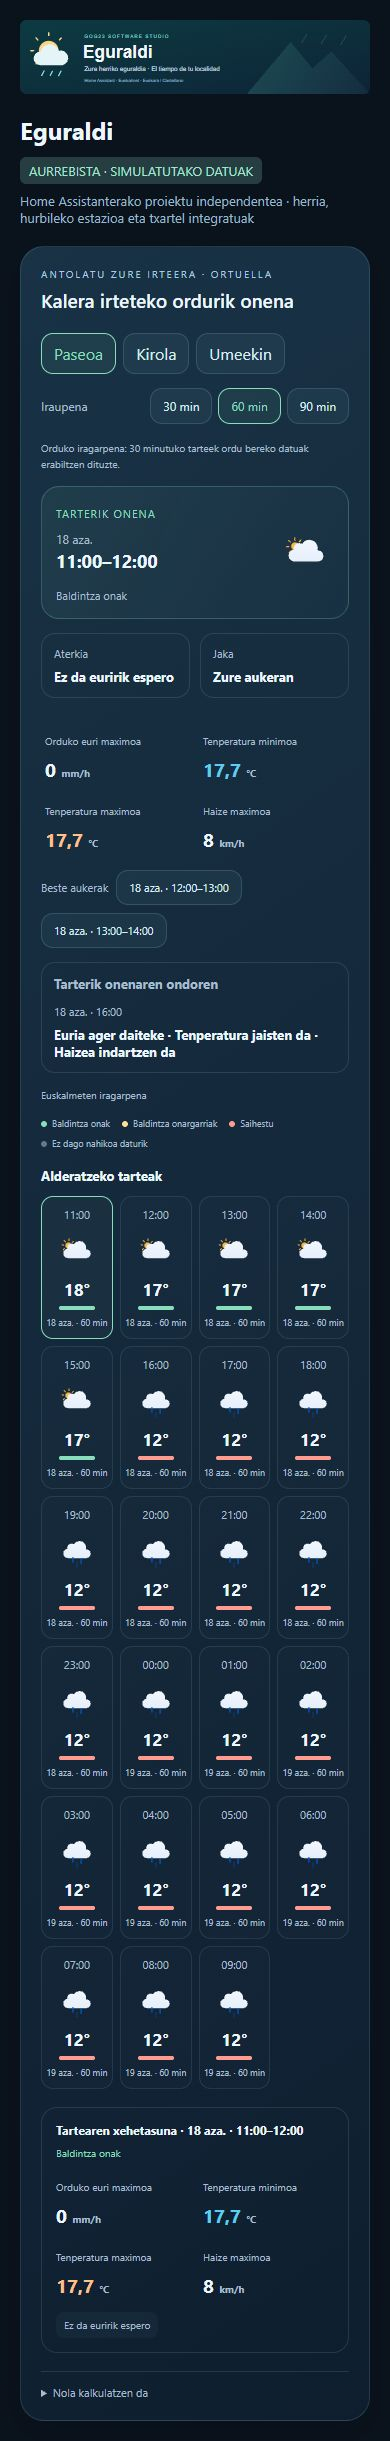
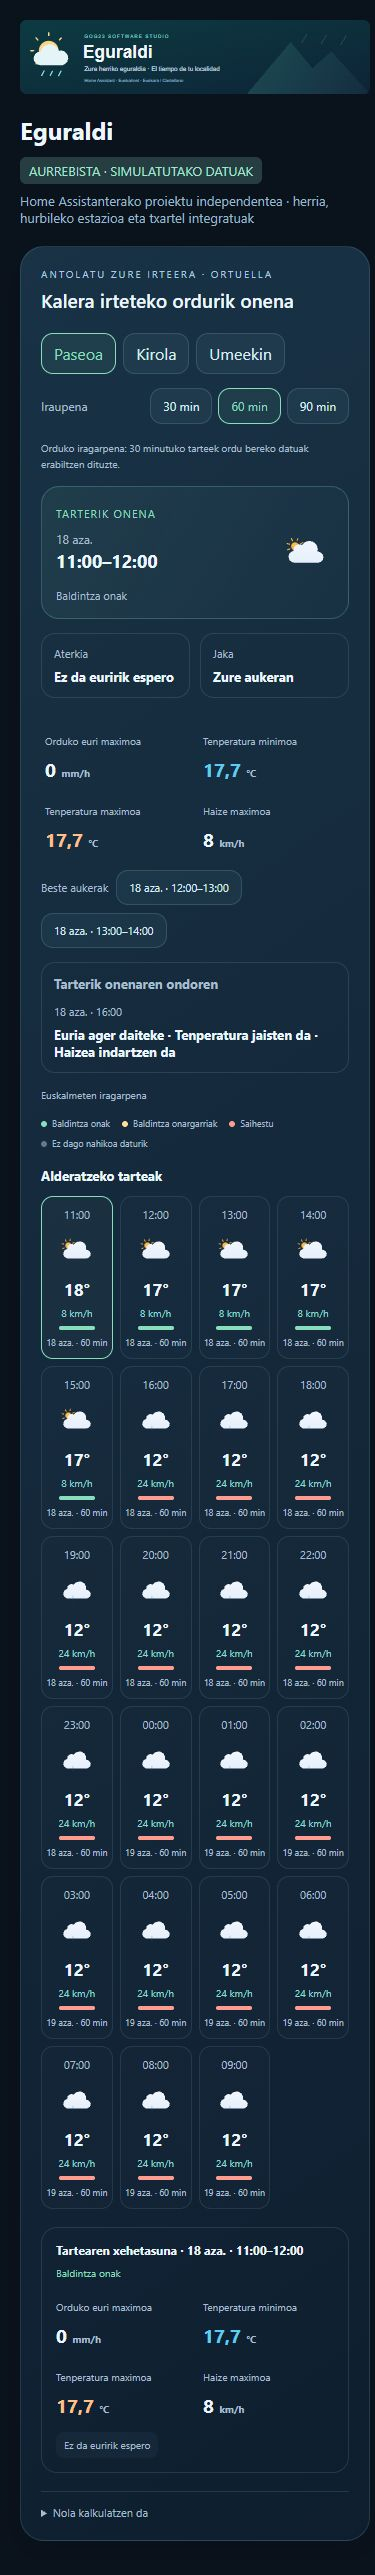
Match outing forecast tiles to drying card hourly wind display

diff --git a/custom_components/euskalmet_local/frontend/euskalmet-local-card.js b/custom_components/euskalmet_local/frontend/euskalmet-local-card.js
@@ -1,14 +1,14 @@
 /* Eguraldi — GOG23 Software Studio. MIT. Icons: Meteocons / Bas Milius. */
-import './euskalmet-alert-card.js?v=0.4.1';
-import './eguraldi-comparison-card.js?v=0.4.1';
-import './eguraldi-microclimate-card.js?v=0.4.1';
-import './euskalmet-history-card.js?v=0.4.1-controls';
-import './euskalmet-radar-map-card.js?v=0.4.1';
+import './euskalmet-alert-card.js?v=0.4.2';
+import './eguraldi-comparison-card.js?v=0.4.2';
+import './eguraldi-microclimate-card.js?v=0.4.2';
+import './euskalmet-history-card.js?v=0.4.2-controls';
+import './euskalmet-radar-map-card.js?v=0.4.2';
 
-import {DRYING_CSS} from './eguraldi-drying-style.js?v=0.4.1';
-import {dryingPlan} from './eguraldi-drying-model.js?v=0.4.1';
+import {DRYING_CSS} from './eguraldi-drying-style.js?v=0.4.2';
+import {dryingPlan} from './eguraldi-drying-model.js?v=0.4.2';
 
-import {outingPlan} from './eguraldi-outing-model.js?v=0.4.1';
+import {outingPlan} from './eguraldi-outing-model.js?v=0.4.2';
 
 const EU_TEXT = {
   "Despejado": "Oskarbi",
@@ -303,7 +303,7 @@ export class EuskalmetLocalCard extends HTMLElement {
     const best=plan.best,selected=plan.windows.find(w=>w.start===this._outingSelected)||best||plan.windows[0],labels={good:'Condiciones favorables',fair:'Condiciones aceptables',avoid:'Evitar',unknown:'Sin datos suficientes'},reasons={storm:'Tormenta o condiciones adversas',wind:'Viento demasiado fuerte',extreme:'Temperatura poco adecuada para esta actividad',rain:'Franja con lluvia',fog:'Niebla',rain_possible:'Probabilidad de lluvia o lluvia débil',cool:'Temperatura baja',night:'Noche o poca luz',breezy:'Viento molesto'};
     const rows=plan.windows.filter(w=>w.start%3600000===0||w.start===best?.start||w.start===selected?.start);
     const facts=w=>{const all=key=>w.parts.every(p=>numeric(p[key])!==null),values=key=>w.parts.map(p=>p[key]);return `<div class="dry-facts">${[[this._t('Máxima lluvia horaria'),all('rain')?Math.max(...values('rain')):null,'mm/h'],[this._t('Temperatura mínima'),all('temperature')?Math.min(...values('temperature')):null,'°C'],[this._t('Temperatura máxima'),all('temperature')?Math.max(...values('temperature')):null,'°C'],[this._t('Viento máximo'),all('wind')?Math.max(...values('wind')):null,'km/h']].map(([label,value,unit])=>`<div><span>${escapeHTML(label)}</span><strong class="${label===this._t('Temperatura mínima')?'outing-min':label===this._t('Temperatura máxima')?'outing-max':''}">${fmt(value)} <small>${unit}</small></strong></div>`).join('')}</div>`;};
-    return `<section class="drying outing">${this._forecastHeader('La mejor hora para salir','Organiza tu salida')}<div class="outing-controls" role="group" aria-label="${this._t('Actividad')}">${[['walk','Paseo'],['sport','Deporte'],['family','Con niños']].map(([id,label])=>`<button data-outing-activity="${id}" aria-pressed="${plan.activity===id}">${escapeHTML(this._t(label))}</button>`).join('')}</div><div class="dry-controls"><span>${escapeHTML(this._t('Duración'))}</span><div>${[30,60,90].map(n=>`<button data-outing-minutes="${n}" aria-pressed="${plan.minutes===n}">${n} min</button>`).join('')}</div></div><div class="dry-source">${escapeHTML(this._t('Previsión horaria: las franjas de 30 minutos usan los mismos datos de su hora.'))}</div><div class="dry-hero ${best?best.status:'avoid'}"><div><span class="dry-kicker">${escapeHTML(this._t(best?'Mejor ventana':'Mejor esperar'))}</span><strong>${best?`<small class="dry-window-date">${escapeHTML(day(best.start))}</small>${escapeHTML(clock(best.start))}–${escapeHTML(clock(best.end))}${day(best.start)!==day(best.end)?`<small class="dry-window-date">${escapeHTML(day(best.end))}</small>`:''}`:escapeHTML(this._t('No se ha encontrado una franja adecuada con los datos disponibles.'))}</strong><span class="dry-verdict">${best?escapeHTML(this._t(labels[best.status])):''}</span></div>${best?this._icon(best.parts[0].condition,best.start):''}</div>${best?`<div class="outing-kit"><div><span>${this._t('Paraguas')}</span><strong>${this._t(best.umbrella?'Por precaución':'No se prevé lluvia')}</strong></div><div><span>${this._t('Chaqueta')}</span><strong>${this._t(best.jacket?'Recomendable':'A tu elección')}</strong></div></div><div class="dry-window-summary">${facts(best)}</div>`:''}${plan.alternatives.length?`<div class="dry-alternatives"><span>${this._t('Otras opciones')}</span>${plan.alternatives.map(w=>`<button data-outing-start="${w.start}">${escapeHTML(range(w))}</button>`).join('')}</div>`:''}${best?`<div class="outing-changes"><h3>${this._t('Después de la mejor franja')}</h3>${plan.changes.length?plan.changes.map(c=>`<span>${escapeHTML(day(c.stamp)+' · '+clock(c.stamp))}</span><strong>${c.types.map(type=>this._t({rain:'Puede aparecer lluvia',cool:'Baja la temperatura',wind:'Aumenta el viento'}[type])).join(' · ')}</strong>`).join(''):`<span>${this._t(plan.checkedUntil?'No se detectan cambios destacables en las horas comparadas.':'No hay suficientes datos posteriores para comparar.')}</span>${plan.checkedUntil?`<span class="outing-until">${escapeHTML(this._t('Comparado hasta {time}',{time:day(plan.checkedUntil)+' · '+clock(plan.checkedUntil)}))}</span>`:''}`}</div>`:''}<div class="dry-source">${this._t('Previsión de Euskalmet')}</div><div class="dry-legend">${['good','fair','avoid','unknown'].map(id=>`<span class="${id}">${this._t(labels[id])}</span>`).join('')}</div><h3>${this._t('Franjas para comparar')}</h3><div class="dry-hours">${rows.map(w=>`<button class="dry-hour ${w.status} ${w.start===selected?.start?'selected':''}" data-outing-start="${w.start}" aria-pressed="${w.start===selected?.start}" aria-label="${escapeHTML(range(w)+' · '+this._t(labels[w.status]))}"><time>${escapeHTML(clock(w.start))}</time>${this._icon(w.parts[0].condition,w.start)}<strong>${w.parts.every(p=>p.temperature!==null)?fmt(w.parts.reduce((n,p)=>n+p.temperature,0)/w.parts.length,0):'—'}°</strong><span class="dry-status-dot" aria-hidden="true"></span><small>${escapeHTML(day(w.start))} · ${plan.minutes} min</small></button>`).join('')}</div>${selected?`<div class="dry-detail"><div class="dry-detail-head"><h3>${this._t('Detalle de la franja')} · ${escapeHTML(range(selected))}</h3><span class="${selected.status}">${this._t(labels[selected.status])}</span></div>${facts(selected)}<div class="dry-reasons">${(selected.status==='unknown'?['Faltan datos para valorar esta franja']:selected.reasons.length?selected.reasons.map(r=>reasons[r]):['No se prevé lluvia']).map(r=>`<span>${escapeHTML(this._t(r))}</span>`).join('')}</div></div>`:''}<details class="dry-method"><summary>${this._t('Cómo se calcula')}</summary>${['Orientación meteorológica, no una evaluación de seguridad. Las reglas cambian según la actividad.','Las franjas deben tener datos en todas las horas que tocan. No se interpolan la lluvia ni el viento.','Se comparan lluvia, temperatura, viento y luz diurna. Microclima no modifica la previsión.'].map(p=>`<p>${this._t(p)}</p>`).join('')}</details></section>`;
+    return `<section class="drying outing">${this._forecastHeader('La mejor hora para salir','Organiza tu salida')}<div class="outing-controls" role="group" aria-label="${this._t('Actividad')}">${[['walk','Paseo'],['sport','Deporte'],['family','Con niños']].map(([id,label])=>`<button data-outing-activity="${id}" aria-pressed="${plan.activity===id}">${escapeHTML(this._t(label))}</button>`).join('')}</div><div class="dry-controls"><span>${escapeHTML(this._t('Duración'))}</span><div>${[30,60,90].map(n=>`<button data-outing-minutes="${n}" aria-pressed="${plan.minutes===n}">${n} min</button>`).join('')}</div></div><div class="dry-source">${escapeHTML(this._t('Previsión horaria: las franjas de 30 minutos usan los mismos datos de su hora.'))}</div><div class="dry-hero ${best?best.status:'avoid'}"><div><span class="dry-kicker">${escapeHTML(this._t(best?'Mejor ventana':'Mejor esperar'))}</span><strong>${best?`<small class="dry-window-date">${escapeHTML(day(best.start))}</small>${escapeHTML(clock(best.start))}–${escapeHTML(clock(best.end))}${day(best.start)!==day(best.end)?`<small class="dry-window-date">${escapeHTML(day(best.end))}</small>`:''}`:escapeHTML(this._t('No se ha encontrado una franja adecuada con los datos disponibles.'))}</strong><span class="dry-verdict">${best?escapeHTML(this._t(labels[best.status])):''}</span></div>${best?this._icon(best.parts[0].condition,best.start):''}</div>${best?`<div class="outing-kit"><div><span>${this._t('Paraguas')}</span><strong>${this._t(best.umbrella?'Por precaución':'No se prevé lluvia')}</strong></div><div><span>${this._t('Chaqueta')}</span><strong>${this._t(best.jacket?'Recomendable':'A tu elección')}</strong></div></div><div class="dry-window-summary">${facts(best)}</div>`:''}${plan.alternatives.length?`<div class="dry-alternatives"><span>${this._t('Otras opciones')}</span>${plan.alternatives.map(w=>`<button data-outing-start="${w.start}">${escapeHTML(range(w))}</button>`).join('')}</div>`:''}${best?`<div class="outing-changes"><h3>${this._t('Después de la mejor franja')}</h3>${plan.changes.length?plan.changes.map(c=>`<span>${escapeHTML(day(c.stamp)+' · '+clock(c.stamp))}</span><strong>${c.types.map(type=>this._t({rain:'Puede aparecer lluvia',cool:'Baja la temperatura',wind:'Aumenta el viento'}[type])).join(' · ')}</strong>`).join(''):`<span>${this._t(plan.checkedUntil?'No se detectan cambios destacables en las horas comparadas.':'No hay suficientes datos posteriores para comparar.')}</span>${plan.checkedUntil?`<span class="outing-until">${escapeHTML(this._t('Comparado hasta {time}',{time:day(plan.checkedUntil)+' · '+clock(plan.checkedUntil)}))}</span>`:''}`}</div>`:''}<div class="dry-source">${this._t('Previsión de Euskalmet')}</div><div class="dry-legend">${['good','fair','avoid','unknown'].map(id=>`<span class="${id}">${this._t(labels[id])}</span>`).join('')}</div><h3>${this._t('Franjas para comparar')}</h3><div class="dry-hours">${rows.map(w=>`<button class="dry-hour ${w.status} ${w.start===selected?.start?'selected':''}" data-outing-start="${w.start}" aria-pressed="${w.start===selected?.start}" aria-label="${escapeHTML(range(w)+' · '+this._t(labels[w.status]))}"><time>${escapeHTML(clock(w.start))}</time>${this._icon(w.parts[0].condition,w.start)}<strong>${w.parts.every(p=>p.temperature!==null)?fmt(w.parts.reduce((n,p)=>n+p.temperature,0)/w.parts.length,0):'—'}°</strong><span class="dry-hour-wind" title="${escapeHTML(this._t('Viento máximo'))}">${w.parts.every(p=>p.wind!==null)?fmt(Math.max(...w.parts.map(p=>p.wind)),0):'—'} km/h</span><span class="dry-status-dot" aria-hidden="true"></span><small>${escapeHTML(day(w.start))} · ${plan.minutes} min</small></button>`).join('')}</div>${selected?`<div class="dry-detail"><div class="dry-detail-head"><h3>${this._t('Detalle de la franja')} · ${escapeHTML(range(selected))}</h3><span class="${selected.status}">${this._t(labels[selected.status])}</span></div>${facts(selected)}<div class="dry-reasons">${(selected.status==='unknown'?['Faltan datos para valorar esta franja']:selected.reasons.length?selected.reasons.map(r=>reasons[r]):['No se prevé lluvia']).map(r=>`<span>${escapeHTML(this._t(r))}</span>`).join('')}</div></div>`:''}<details class="dry-method"><summary>${this._t('Cómo se calcula')}</summary>${['Orientación meteorológica, no una evaluación de seguridad. Las reglas cambian según la actividad.','Las franjas deben tener datos en todas las horas que tocan. No se interpolan la lluvia ni el viento.','Se comparan lluvia, temperatura, viento y luz diurna. Microclima no modifica la previsión.'].map(p=>`<p>${this._t(p)}</p>`).join('')}</details></section>`;
   }
   _drying(){
     const humidityEntity=this._config.humidity_forecast_entity,other=this._hass?.states[humidityEntity],weather=this._state('weather'),usable=weather&&!['unknown','unavailable'].includes(weather.state);

diff --git a/docs/preview.html b/docs/preview.html
@@ -6,7 +6,7 @@
 
 <script type="module">
 
-import {EuskalmetLocalCard} from '/euskalmet_local_static/euskalmet-local-card.js?v=0.4.1-controls';
+import {EuskalmetLocalCard} from '/euskalmet_local_static/euskalmet-local-card.js?v=0.4.2-controls';
 
 const now=new Date().setMinutes(0,0,0),loc={entry_id:'demo',locality:'Ortuella',station:'Arboleda',location_source:'home_assistant',distance_km:1.8,latitude:43.31,longitude:-3.05,entities:{weather:'weather.demo',temperature:'sensor.demo_temperature',humidity:'sensor.demo_humidity',precipitation_today:'sensor.demo_rain',temperature_min_today:'sensor.demo_min',temperature_max_today:'sensor.demo_max',wind_gust_max_today:'sensor.demo_gust',irradiance:'sensor.demo_irradiance'}};
 

diff --git a/custom_components/euskalmet_local/frontend/eguraldi-outing-model.js b/custom_components/euskalmet_local/frontend/eguraldi-outing-model.js
@@ -1,5 +1,5 @@
 /* Eguraldi · heuristic weather windows, not a safety assessment · MIT */
-import {dryingHour} from './eguraldi-drying-model.js?v=0.4.1';
+import {dryingHour} from './eguraldi-drying-model.js?v=0.4.2';
 const OUTING_HOUR=3600000, HALF_HOUR=1800000;
 const PROFILES={walk:{cold:0,hot:32,wind:35,gust:50,ideal:18},sport:{cold:2,hot:28,wind:30,gust:45,ideal:14},family:{cold:5,hot:30,wind:25,gust:40,ideal:20}};
 

diff --git a/custom_components/euskalmet_local/dashboard.py b/custom_components/euskalmet_local/dashboard.py
@@ -8,7 +8,7 @@ from homeassistant.helpers import entity_registry as er
 from .const import DOMAIN
 from .microclimate_options import async_register_microclimate_service
 
-VERSION = "0.4.1"
+VERSION = "0.4.2"
 EVENT_LOCATIONS_UPDATED = f"{DOMAIN}_locations_updated"
 
 

diff --git a/README.eu.md b/README.eu.md
@@ -11,7 +11,7 @@ Euskalmeteko eguraldia Home Assistanten: hurbileko estazioen neurketak, orduko e
 [![Egiaztapenak](https://github.com/GOG23-Software-Studio/eguraldi/actions/workflows/ci.yml/badge.svg)](https://github.com/GOG23-Software-Studio/eguraldi/actions/workflows/ci.yml)
 [![Bertsioa](https://img.shields.io/github/v/release/GOG23-Software-Studio/eguraldi)](https://github.com/GOG23-Software-Studio/eguraldi/releases)
 
-**0.4.1 bertsioa.** Komunitate-proiektu independentea, Euskalmetekin edo Eusko Jaurlaritzarekin lotura ofizialik gabea.
+**0.4.2 bertsioa.** Komunitate-proiektu independentea, Euskalmetekin edo Eusko Jaurlaritzarekin lotura ofizialik gabea.
 
 ![Eguraldiren txartelak, simulatutako datuekin](docs/preview-eu.jpg)
 
@@ -20,6 +20,8 @@ Euskalmeteko eguraldia Home Assistanten: hurbileko estazioen neurketak, orduko e
 ## Kalera irteteko ordurik onena
 
 Aukeratu **Paseoa**, **Kirola** edo **Umeekin**, eta **30, 60 edo 90 minutuko** iraupena. Txartelak hurrengo 24 orduetako tarte onena eta bi aukera gehigarri bilatzen ditu. Aterkiari eta jakari buruzko orientazioa ematen du eta, ondorengo sei orduetan datuak badaude, euriaren, tenperaturaren edo haizearen lehen okerragotzea erakusten du.
+
+Tarte bakoitzak aurreikusitako haize maximoa ere erakusten du tenperaturaren azpian, Arropa zabaldu ikuspegiaren estilo berarekin.
 
 Iragarpena ordukoa da: ordu erdiko irteerek ordu-bloke berak erabiltzen dituzte, datuak asmatu gabe. Zeharkatutako ordu guztietan datuak behar dira. Ez du Mikroklima edo beste hornitzailerik behar. [Arauak eta konfigurazioa](docs/OUTING.md) (gaztelaniaz).
 

diff --git a/README.md b/README.md
@@ -12,7 +12,7 @@ El tiempo de Euskalmet en Home Assistant: observaciones de estaciones cercanas, 
 
 [![Versión](https://img.shields.io/github/v/release/GOG23-Software-Studio/eguraldi)](https://github.com/GOG23-Software-Studio/eguraldi/releases)
 
-**Versión 0.4.1.** Proyecto comunitario independiente, sin afiliación con Euskalmet ni con el Gobierno Vasco.
+**Versión 0.4.2.** Proyecto comunitario independiente, sin afiliación con Euskalmet ni con el Gobierno Vasco.
 
 ![Tarjetas actuales de Eguraldi en escritorio, con datos simulados](docs/preview.jpg)
 
@@ -29,6 +29,8 @@ El tiempo de Euskalmet en Home Assistant: observaciones de estaciones cercanas, 
 ## La mejor hora para salir
 
 Elige **Paseo**, **Deporte** o **Con niños**, y una duración de **30, 60 o 90 minutos**. La tarjeta busca una franja favorable en las próximas 24 horas, propone hasta dos alternativas, orienta sobre paraguas y chaqueta e indica el primer empeoramiento posterior de lluvia, temperatura o viento, dentro de las seis horas siguientes con datos.
+
+Cada franja muestra también el viento máximo previsto debajo de la temperatura, con el mismo estilo que Tender fuera.
 
 La previsión es horaria: las salidas a media hora reutilizan esos bloques, sin inventar una predicción de 30 minutos. Todas las horas atravesadas deben tener datos; las condiciones adversas y los huecos impiden recomendar una franja. No necesita Microclima ni otros proveedores. [Reglas y configuración](docs/OUTING.md).
 
